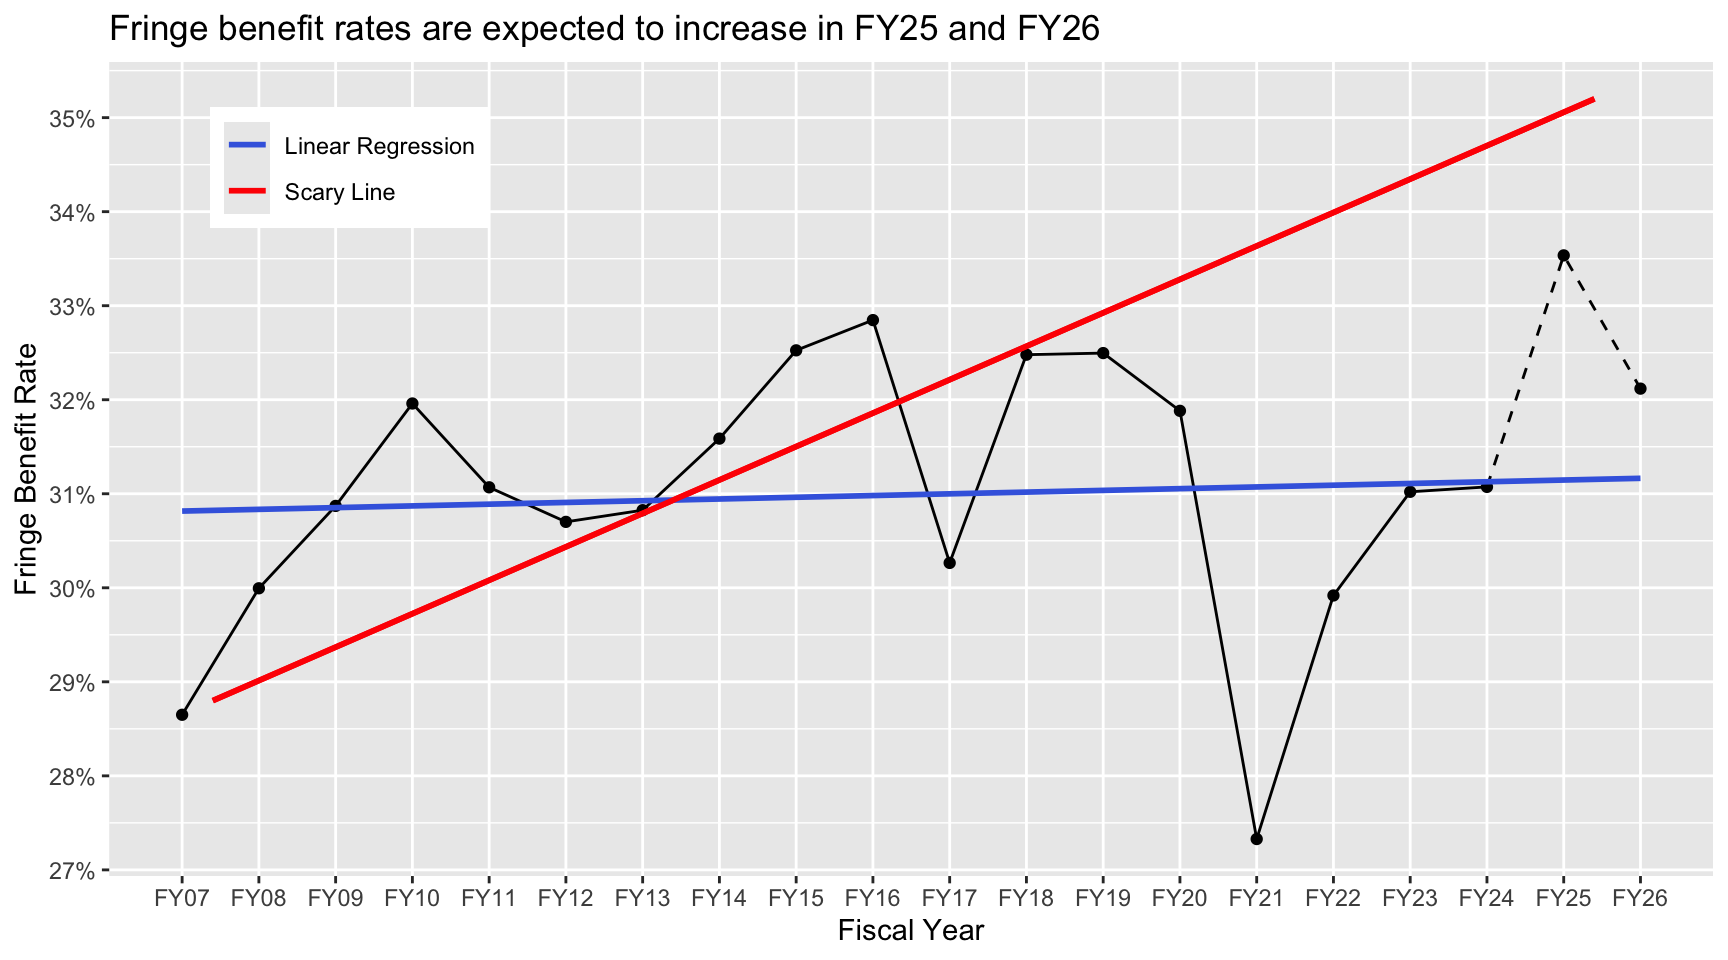
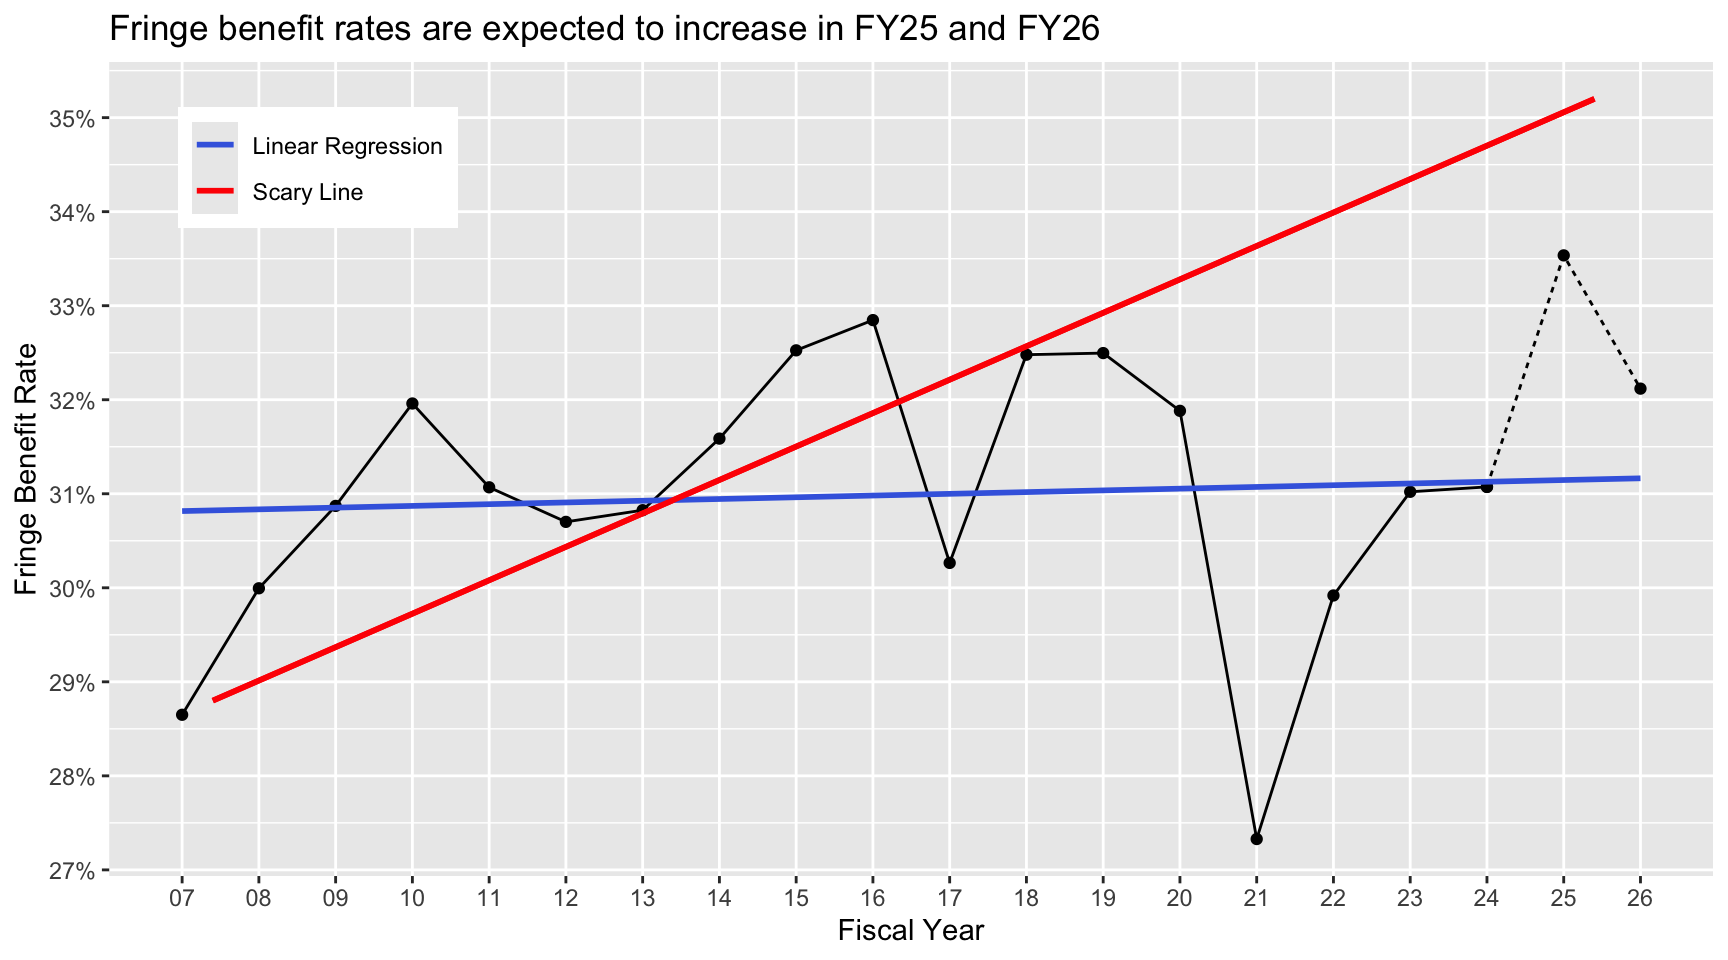
fix typos

Changed region(s): [[0.3125, 0.9062, 0.9688, 0.9375], [0.0938, 0.0938, 0.2812, 0.25], [0.0938, 0.9062, 0.2812, 0.9375]]

diff --git a/docs/a-lesson-in-visualization.html b/docs/a-lesson-in-visualization.html
@@ -156,8 +156,8 @@ ul.task-list li input[type="checkbox"] {
 
 <section id="what-is-data-visualization-good-for" class="level2">
 <h2 class="anchored" data-anchor-id="what-is-data-visualization-good-for">What is Data Visualization Good For?</h2>
-<p>I love data science because it unlocks a door into information. Data, and statistics about that data, can enable smarter decision making than simply guessing or going with the status quo. Sometimes, statistics are limited. I am not so staunch an advocate for data science that I think there is no place for decision-making outside of mathematical proof. Both science and lived experience are valuable tools for making challenging choices. However, the two should not be confused and most importantly, <strong>decision-makers must be clear about which they are using, feelings or facts</strong>, especially when they are accountable to outside stakeholders.</p>
-<p>One of my favorite classes to teach is Data Visualization, where students learn to use graphics to unveil and communicate underlying patterns within the data. The best data visualizations are clever, well-designed and help answer challenging questions. Data visualizations should “above all else show the data”, put beautifully by the father of modern data visualization Edward Tufte. This does seem like the bare minimum, to show the data and not lie. However, poor data visualization is a Trojan Horse, disguising bad information as scientifically-suppported insight. Without critical thinking, consumers of poorly made visualizations let opinions and biases solidify as fact. Stakeholders inherently <em>trust</em> data and are conditioned to accept statistics and visualizations at face value. If a plot insinuates a pattern, it must be there… right?</p>
+<p>I love data science because it transforms data into actionable information. Data, and statistics about that data, can enable smarter decision-making than simply guessing or going with the status quo. Sometimes, statistics are limited. I am not so staunch an advocate for data science that I think there is no place for decision-making outside of mathematical proof. Both science and lived experience are valuable tools for making challenging choices. However, the two should not be confused and most importantly, <strong>decision-makers must be clear about which they are using, feelings or facts</strong>, especially when they are accountable to outside stakeholders.</p>
+<p>One of my favorite classes to teach is Data Visualization, where students learn to use graphics to unveil and communicate underlying patterns within the data. The best data visualizations are clever, well-designed and help answer challenging questions. Data visualizations should “above all else show the data”, put beautifully by the father of modern data visualization Edward Tufte. This does seem like the bare minimum, to show the data and not lie. However, poor data visualization is a Trojan Horse, disguising bad information as scientifically-supported insight. Without critical thinking, consumers of poorly made visualizations let opinions and biases solidify as fact. Stakeholders inherently <em>trust</em> data and are conditioned to accept statistics and visualizations at face value. If a plot insinuates a pattern, it must be there… right?</p>
 <blockquote class="blockquote">
 <p>Above all else show the data</p>
 <p>– Edward Tufte, 1983</p>
@@ -165,7 +165,7 @@ ul.task-list li input[type="checkbox"] {
 </section>
 <section id="misleading-visualization-a-case-study" class="level2">
 <h2 class="anchored" data-anchor-id="misleading-visualization-a-case-study">Misleading Visualization: A Case Study</h2>
-<p>When I teach this class, we spend lots of time discussing ways to not mislead viewers. I would like to critically delve into one particular visualization to break down some of these areas, discuss the harm these misleading elements cause, and suggest improvements to the visualiation.</p>
+<p>When I teach this class, we spend lots of time discussing ways to not mislead viewers. I would like to critically delve into one particular visualization to break down some of these areas, discuss the harm these misleading elements cause, and suggest improvements to the visualiation. This visual was presented by administrators at a faculty meeting discussing employee benefits and was being used in budget planning. Specifically, the plot shows the change over time in fringe benefit rate. Fringe benefit rate would be computed as the ratio of non-salary compensation (such as health insurance, retirement, and tution remission) to overall compensation. For example, if my salary were $70,000 and my benefits totalled to $30,000, my fringe benefit rate would be 30%.</p>
 <div class="quarto-figure quarto-figure-center">
 <figure class="figure">
 <p><img src="assets/img/original_plot.JPG" class="img-fluid figure-img"></p>
@@ -175,12 +175,12 @@ ul.task-list li input[type="checkbox"] {
 <p>There are a number of critiques I would take with this graphic if this were presented as a homework submission by a student, but I will focus on the areas in which this graphic is <em>misleading</em> (read: wrong). Some appear to be intentional, meaning a biased story is being presented as fact, and some are likely not, meaning the way the graphic is designed might encourage assumptions that are incorrect. Since I want readers to learn from this, I will also remake and correct the plot as we go.</p>
 <ol type="1">
 <li>The text callout for FY25 reads “Highest ever projected Fringe Benefit Rate (35%)”, but the data point showing the projection is clearly under the 34% grid line.</li>
-<li>The values for FY25 and FY26 are unknown values, but are displayed identically to the known values.</li>
+<li>The values for FY25 and FY26 are projections, but are displayed identically to the known values.</li>
 <li>The glaring red line showing a huge increase in the fringe benefit rate over time is… suspicious. This warrants further investigation.</li>
 </ol>
 <section id="design-changes" class="level3">
 <h3 class="anchored" data-anchor-id="design-changes">Design Changes</h3>
-<p>Starting with small fixes, points 1 and 2 are likely the result of a lack of attention to detail or lack of knowledge about data visualization principles. First, the text callout is simply incorrect. I would like to give the benefit of the doubt here and assume that perhaps in another version of the data set, the projection was in fact 35%. If the text callout isn’t tied to that value with code (I assume someone manually added this), then it would be a detail that easily goes unnotices when preparing a slide deck. This isn’t extremely consequential, but it is disappointing to have such mistakes persist at the highest levels of decision-making. Point 2 is a bit more nuanced and is more understandable because I assume the folks preparing these graphics haven’t taken data visualization courses. Since the values for FY25 and FY26 are not known yet, the best way to present the data is by differentiating the plot in some way. If this is not done, as in the original example, the viewer might too easily draw the conclusion that these are <em>real</em> values, which is incorrect. Presenting both known and unknown vaulues as identical is misleading. Though the error is understandable, I am increasingly confused (and frankly embarrassed of) how administrators are allowed to present information like this with no training or oversight.</p>
+<p>Starting with small fixes, points 1 and 2 are likely the result of a lack of attention to detail or lack of knowledge about data visualization principles. First, the text callout is simply incorrect. I would like to give the benefit of the doubt here and assume that perhaps in another version of the data set, the projection was in fact 35%. If the text callout isn’t tied to that value with code (I assume someone manually added this), then it would be a detail that easily goes unnoticed when preparing a slide deck. This isn’t extremely consequential, but it is disappointing to have such mistakes persist at the highest levels of decision-making. Point 2 is a bit more nuanced and is more understandable because I assume the folks preparing these graphics haven’t taken data visualization courses. Since the values for FY25 and FY26 are not known yet, the best way to present the data is by differentiating the plot in some way. If this is not done, as in the original example, the viewer might too easily draw the conclusion that these are <em>real</em> values, which is incorrect. Presenting both known and unknown vaulues as identical is misleading. Though the error is understandable, I am increasingly confused (and frankly embarrassed of) how administrators are allowed to present information like this with no training or oversight.</p>
 <div class="cell">
 <div class="cell-output-display">
 <div>
@@ -190,7 +190,7 @@ ul.task-list li input[type="checkbox"] {
 </div>
 </div>
 </div>
-<p>Here I have addressed points 1 and 2. I changed the FY25 and FY26 values to dotted lines, which signals to the viewer that this data is a projection rather than known data. I have also tied the text callout to the data itself, so if my numbers updated, so would my plot without having to plan or think. Finally, for some design changes, I adjusted the y-axes limits to be zoomed into the data, maximizing how the plot space is used, removed the “FY” from the x-axis tick labels, and also added a descriptive title to tell the audience explicitly what I want them to understand.</p>
+<p>Here I have addressed points 1 and 2. I changed the FY25 and FY26 values to dotted lines, which signals to the viewer that this data is a projection rather than known data. I have also tied the text callout to the data itself, so if my numbers updated, so would my plot without having to plan or think. I also made some minor design adjustments to improve the plot’s readability<a href="#fn2" class="footnote-ref" id="fnref2" role="doc-noteref"><sup>2</sup></a>.</p>
 </section>
 <section id="predicting-new-values" class="level3">
 <h3 class="anchored" data-anchor-id="predicting-new-values">Predicting New Values</h3>
@@ -204,7 +204,7 @@ ul.task-list li input[type="checkbox"] {
 </div>
 </div>
 </div>
-<p>Interesting! The linear regression, based on the real data from FY07-FY24, shows only a moderate increase in the fringe benefit rates, much smaller than the red line would indicate. The slope for this linear regression is 0.018, meaning the fringe benefit rate increses by about 0.018%<a href="#fn2" class="footnote-ref" id="fnref2" role="doc-noteref"><sup>2</sup></a> per year over this time. This is compared to the slope of the red line, which works out to be 0.356, or a 0.356%<a href="#fn3" class="footnote-ref" id="fnref3" role="doc-noteref"><sup>3</sup></a> increase per year over this time. Comparing the two values, the slope of the red line is about 19 times steeper than that of the true linear regression!</p>
+<p>Interesting! The linear regression, based on the real data from FY07-FY24, shows only a moderate increase in the fringe benefit rates, much smaller than the red line would indicate. The slope for this linear regression is 0.018, meaning the fringe benefit rate increases by about 0.018%<a href="#fn3" class="footnote-ref" id="fnref3" role="doc-noteref"><sup>3</sup></a> per year over this time. This is compared to the slope of the red line, which works out to be 0.356, or a 0.356%<a href="#fn4" class="footnote-ref" id="fnref4" role="doc-noteref"><sup>4</sup></a> increase per year over this time. Comparing the two values, the slope of the red line is about 19 times steeper than that of the true linear regression!</p>
 <p>I also want to give the benefit of the doubt again, perhaps this red line is based instead on <em>all</em> the values, including the projected one? I tried this as well, and unfortunately though the slope has increases, it is still nowhere near the red line– the slope is now 0.063.</p>
 <div class="cell">
 <div class="cell-output-display">
@@ -218,7 +218,7 @@ ul.task-list li input[type="checkbox"] {
 </section>
 <section id="reverse-engineering" class="level3">
 <h3 class="anchored" data-anchor-id="reverse-engineering">Reverse Engineering</h3>
-<p>Here is what I really think happened: the line was drawn to simply connect the earliest and latest reasonable data points, which by some record included a projection for 35% in FY25. I am not certain if the projection for FY25 was either originally 35% and then amended, mistakenly marked as 35% because the line passed snapped to a clean point, or some other reason. If the purpose of the line is to show the increase from FY07-25, then two horizontal lines highlighting this <strong>vertical</strong> gap would be appropriate. Using a sloped line to show this change insinuates to the viewer that the angle is important and unbiased, when in fact it is subject to extreme changes in the time choice. See a few examples below where I have varied the time windows to see how the angle of the line, now drawn between earliest and latest data, tells a very different story in each. So, why the choice of line from FY07-FY25?</p>
+<p>Here is what I really think happened: the line was drawn to simply connect the earliest and latest reasonable data points, which by some record included a projection for 35% in FY25. I am not certain if the projection for FY25 was either originally 35% and then amended, mistakenly marked as 35% because the line automatically snapped to a whole number, or some other reason. If the purpose of the line is to show the increase from FY07-25, then two horizontal lines highlighting this <strong>vertical</strong> gap would be appropriate. Using a sloped line to show this change insinuates to the viewer that the angle is important and unbiased, when in fact it is subject to extreme changes in the time choice. See a few examples below where I have varied the time windows to see how the angle of the line, now drawn between earliest and latest data, tells a very different story in each. So, why the choice of line from FY07-FY25?</p>
 <div class="cell">
 <div class="cell-output-display">
 <div>
@@ -232,8 +232,8 @@ ul.task-list li input[type="checkbox"] {
 </section>
 <section id="please-show-your-work" class="level2">
 <h2 class="anchored" data-anchor-id="please-show-your-work">Please Show Your Work</h2>
-<p>Of course, there is a limit to how clear and unbiased one can be. The audience may still take a different message away from a plot than what was intended. It is also necessary to make some choices that will impact numbers and visuals, like the starting time of the plot for example. My request to institutional decision-makers is no more than I would expect from my students– where there is choice, nuance, and uncertainty, please <strong>show your work</strong>. Let me know where you obtained the data, what assumptions you made (with justification!), and the process you used to obtain your solutions.</p>
-<p>There have been an increasing number of errors and omissions like this, both in visualization and in the presentation of statistics, shared from the highest leadership at the university. In almost every university-level talk I have attended where visualizations or numbers are shared I see at least one instance of poor data communication. Incorrect and misleading visualizations, inaccessible graphics, and indigestibly large tables of irrelevant data instead of a thoughtful graphic are all common. In some situations, claims completely usupported by any data are touted as facts. These presentations, numbers and conclusions are used to make decisions that impact hundreds of jobs and educational journeys. Misleading the audience to think that these conclusions are supported in the data is simply unacceptable.</p>
+<p>Of course, there is a limit to how clear and unbiased one can be. The audience may still take a different message away from a plot than what was intended. It is also necessary to make some choices that will impact numbers and visuals, like the starting time of the plot for example. My request to institutional decision-makers is no more than I would expect from my students– where there is choice, nuance, and uncertainty: <strong>please show your work</strong>. Let me know where you obtained the data, what assumptions you made (with justification!), and the process you used to obtain your solutions.</p>
+<p>There have been an increasing number of errors and omissions like this, both in visualization and in the presentation of statistics, shared from the highest leadership at the university. In almost every university-level talk I have attended where visualizations or numbers are shared I see at least one instance of poor data communication. Incorrect and misleading visualizations, inaccessible graphics, and indigestibly large tables instead of a thoughtful graphic are all common. In some situations, claims completely unsupported by any data are touted as facts. These presentations, numbers and conclusions are used to make decisions that impact hundreds of jobs and educational journeys. Misleading the audience to think that these conclusions are supported in the data is simply unacceptable.</p>
 
 
 </section>
@@ -242,9 +242,10 @@ ul.task-list li input[type="checkbox"] {
 <div id="quarto-appendix" class="default"><section id="footnotes" class="footnotes footnotes-end-of-document" role="doc-endnotes"><h2 class="anchored quarto-appendix-heading">Footnotes</h2>
 
 <ol>
-<li id="fn1"><p>I scraped the data from this visualization using <a href="www.plotdigitizer.com">Plot Digitizer</a>, which allows you to set the scale of your plot and select data points to extract. I extracted the start and end of the red line as well as each each fringe rate from the blue line, and rounded the years to be exactly 7-26. No other preprocessing was done. There will be a small amount of error with this. If someone is able to provide the original data, I would be happy to correct this with exact values. All computations are tied to my code so it can be easily updated.<a href="#fnref1" class="footnote-back" role="doc-backlink">↩</a></p></li>
-<li id="fn2"><p>Be careful to note that <em>percent</em> here is in line with the original variable, <code>percent benefit as compared to salary</code>, not percentage increase of the rate compared to the previous year. Therefore, we should interpret this as in this example: if in FY24 the fringe benefit rate is 31.1%, this linear regression would predict the FY21 fringe benefit rate to be 31.118%.<a href="#fnref2" class="footnote-back" role="doc-backlink">↩</a></p></li>
-<li id="fn3"><p>Unfortunately, this percent may also be confusing as it is very similar to the listed projected benefit rate. Again, if in FY24 the benefit rate is 31.1%, the projection would now be 31.456.<a href="#fnref3" class="footnote-back" role="doc-backlink">↩</a></p></li>
+<li id="fn1"><p>I scraped the data from this visualization using <a href="www.plotdigitizer.com">Plot Digitizer</a>, which allows you to set the scale of your plot and select data points to extract. I extracted the start and end of the red line as well as each each fringe rate from the blue line, and rounded the years to be integers 7-26. No other preprocessing was done. There will be a small amount of error with this. If someone is able to provide the original data, I would be happy to correct this with exact values. All computations are tied to my code so it can be easily updated.<a href="#fnref1" class="footnote-back" role="doc-backlink">↩</a></p></li>
+<li id="fn2"><p>I adjusted the y-axes limits to be zoom into the data, maximizing how the plot space is used, and added extra grid lines for more accurate readability. I edited the x-axis tick labels by removing the “FY”, which increases the <a href="https://jtr13.github.io/cc19/tuftes-principles-of-data-ink.html">data-ink ratio</a>, turning the labels horizontal for readability, and including tick marks to place the year more accurately. I also added a descriptive title to tell the audience explicitly what I want them to understand, which will decrease the chances that they make alternative conclusions or miss the main point.<a href="#fnref2" class="footnote-back" role="doc-backlink">↩</a></p></li>
+<li id="fn3"><p>Be careful to note that <em>percent</em> here is in line with the original variable, <code>percent benefit as compared to salary</code>, not percentage increase of the rate compared to the previous year. Therefore, we should interpret this as in this example: if in FY24 the fringe benefit rate is 31.1%, this linear regression would predict the FY21 fringe benefit rate to be 31.118%.<a href="#fnref3" class="footnote-back" role="doc-backlink">↩</a></p></li>
+<li id="fn4"><p>Unfortunately, this percent may also be confusing as it is very similar to the listed projected benefit rate. Again, if in FY24 the benefit rate is 31.1%, the projection would now be 31.456.<a href="#fnref4" class="footnote-back" role="doc-backlink">↩</a></p></li>
 </ol>
 </section></div></main> <!-- /main -->
 <script id="quarto-html-after-body" type="application/javascript">
